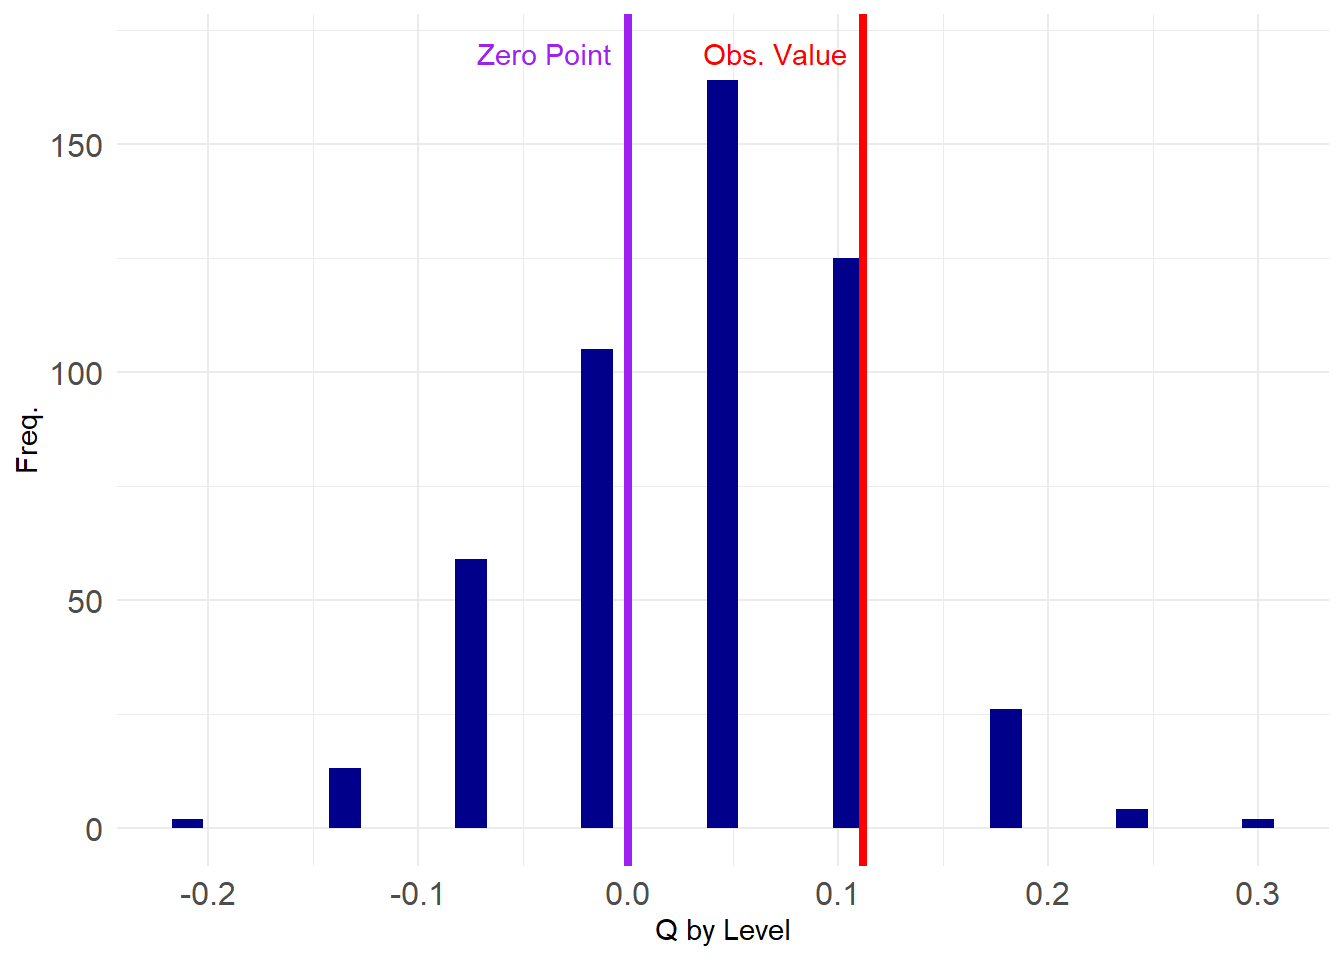
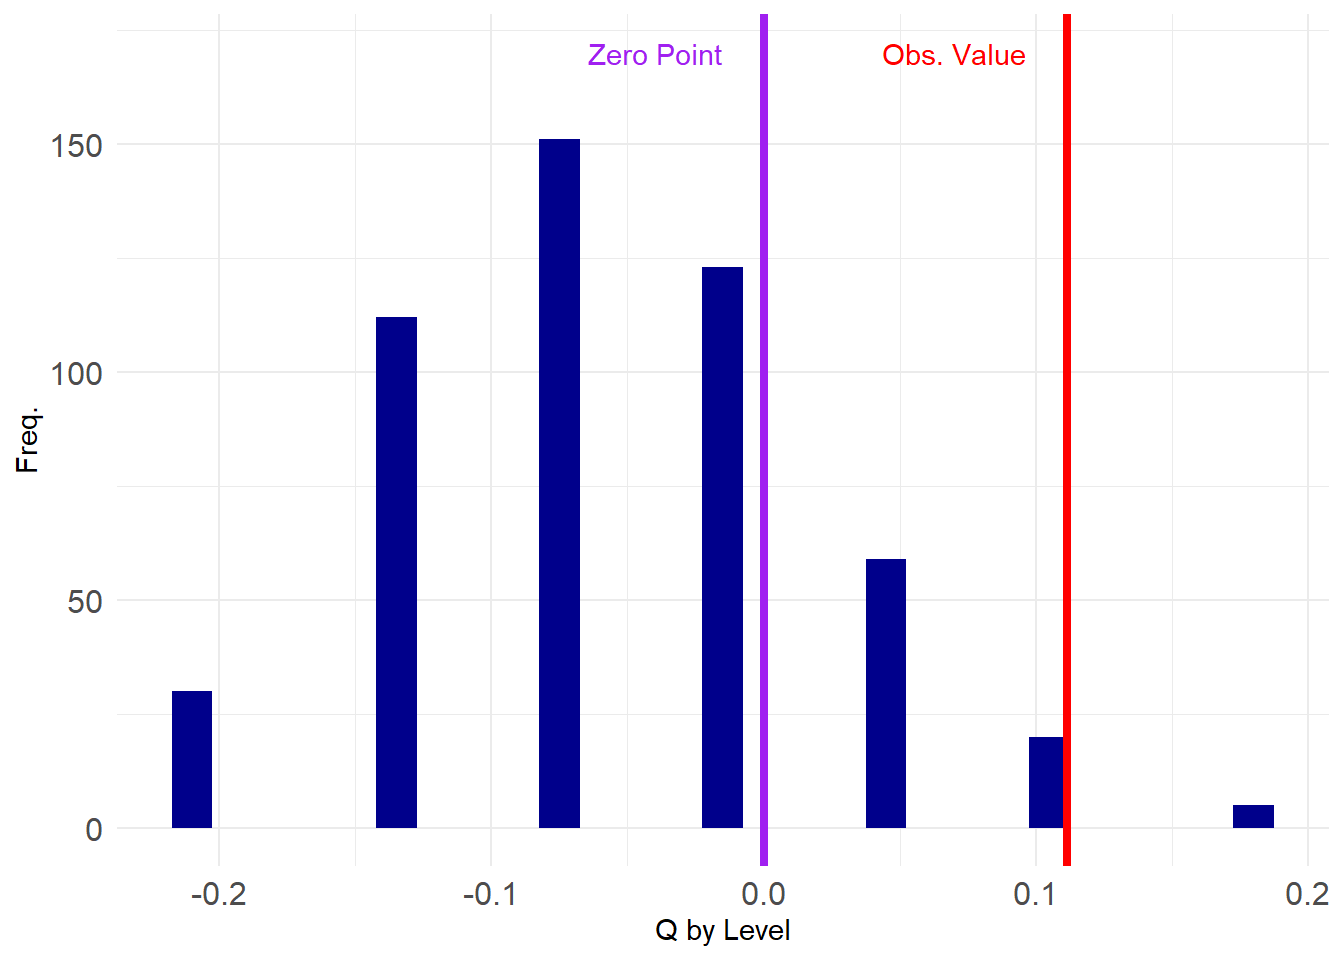
do it

diff --git a/docs/handout9.html b/docs/handout9.html
@@ -667,10 +667,13 @@ TRUE </code></pre>
 <p>Let’s find out.</p>
 <p>First, let’s wrap the degree-preserving swap into a function:</p>
 <div class="cell">
-<div class="sourceCode cell-code" id="cb50"><pre class="sourceCode numberSource r number-lines code-with-copy"><code class="sourceCode r"><span id="cb50-1"><a href="#cb50-1"></a>   swap2 <span class="ot">&lt;-</span> <span class="cf">function</span>(x, <span class="at">m =</span> <span class="dv">50</span>) {</span>
-<span id="cb50-2"><a href="#cb50-2"></a>      x <span class="ot">&lt;-</span> <span class="fu">rewire</span>(x, <span class="fu">keeping_degseq</span>(<span class="at">niter =</span> m))</span>
-<span id="cb50-3"><a href="#cb50-3"></a>      <span class="fu">return</span>(x)</span>
-<span id="cb50-4"><a href="#cb50-4"></a>   }</span></code><button title="Copy to Clipboard" class="code-copy-button"><i class="bi"></i></button></pre></div>
+<div class="sourceCode cell-code" id="cb50"><pre class="sourceCode numberSource r number-lines code-with-copy"><code class="sourceCode r"><span id="cb50-1"><a href="#cb50-1"></a>   swap2 <span class="ot">&lt;-</span> <span class="cf">function</span>(x, <span class="at">e =</span> <span class="dv">10</span><span class="sc">^-</span><span class="dv">7</span>) {</span>
+<span id="cb50-2"><a href="#cb50-2"></a>      m <span class="ot">&lt;-</span> <span class="fu">round</span>((<span class="fu">ecount</span>(x)<span class="sc">/</span><span class="dv">2</span>) <span class="sc">*</span> <span class="fu">log</span>(<span class="dv">1</span><span class="sc">/</span>e)) <span class="co">#recommended number </span></span>
+<span id="cb50-3"><a href="#cb50-3"></a>      <span class="co">#of swaps according to </span></span>
+<span id="cb50-4"><a href="#cb50-4"></a>      <span class="co">#https://en.wikipedia.org/wiki/Degree-preserving_randomization</span></span>
+<span id="cb50-5"><a href="#cb50-5"></a>      x <span class="ot">&lt;-</span> <span class="fu">rewire</span>(x, <span class="fu">keeping_degseq</span>(<span class="at">niter =</span> m))</span>
+<span id="cb50-6"><a href="#cb50-6"></a>      <span class="fu">return</span>(x)</span>
+<span id="cb50-7"><a href="#cb50-7"></a>   }</span></code><button title="Copy to Clipboard" class="code-copy-button"><i class="bi"></i></button></pre></div>
 </div>
 <p>Then let’s create our graph ensemble this time using 500 graphs:</p>
 <div class="cell">
@@ -703,24 +706,24 @@ TRUE </code></pre>
 <div class="cell">
 <div class="sourceCode cell-code" id="cb53"><pre class="sourceCode numberSource r number-lines code-with-copy"><code class="sourceCode r"><span id="cb53-1"><a href="#cb53-1"></a>   <span class="fu">quantile</span>(assort, <span class="at">probs =</span> <span class="fl">0.95</span>)</span></code><button title="Copy to Clipboard" class="code-copy-button"><i class="bi"></i></button></pre></div>
 <div class="cell-output cell-output-stdout">
-<pre><code>      95% 
-0.1751004 </code></pre>
+<pre><code>       95% 
+0.05136546 </code></pre>
 </div>
 <div class="sourceCode cell-code" id="cb55"><pre class="sourceCode numberSource r number-lines code-with-copy"><code class="sourceCode r"><span id="cb55-1"><a href="#cb55-1"></a>   <span class="fu">assortativity</span>(g, <span class="fu">V</span>(g)<span class="sc">$</span>level) <span class="sc">&gt;</span> <span class="fu">quantile</span>(assort, <span class="at">probs =</span> <span class="fl">0.95</span>)</span></code><button title="Copy to Clipboard" class="code-copy-button"><i class="bi"></i></button></pre></div>
 <div class="cell-output cell-output-stdout">
-<pre><code>  95% 
-FALSE </code></pre>
+<pre><code> 95% 
+TRUE </code></pre>
 </div>
 </div>
-<p>Which tells us that after account for node degree differences, the observed value we observed is not significant using conventional cutoffs.</p>
-<p>Instead, the p-value of the estimate is:</p>
+<p>Which tells us that after account for node degree differences, the observed value we observed is still significantly larger than we would have observed by chance using conventional cutoffs.</p>
+<p>Indeed, the p-value of the estimate is:</p>
 <div class="cell">
 <div class="sourceCode cell-code" id="cb57"><pre class="sourceCode numberSource r number-lines code-with-copy"><code class="sourceCode r"><span id="cb57-1"><a href="#cb57-1"></a>   <span class="dv">1</span> <span class="sc">-</span> <span class="fu">ecdf</span>(assort)(<span class="fu">assortativity</span>(g, <span class="fu">V</span>(g)<span class="sc">$</span>level))</span></code><button title="Copy to Clipboard" class="code-copy-button"><i class="bi"></i></button></pre></div>
 <div class="cell-output cell-output-stdout">
-<pre><code>[1] 0.064</code></pre>
+<pre><code>[1] 0.01</code></pre>
 </div>
 </div>
-<p>Which is close, but not quite at the level of usual conventional standards for statistical significance. Looks like our paper will be rejected after all!</p>
+<p>Which is pretty good. Maybe our paper will be published after all!</p>
 
 
 
